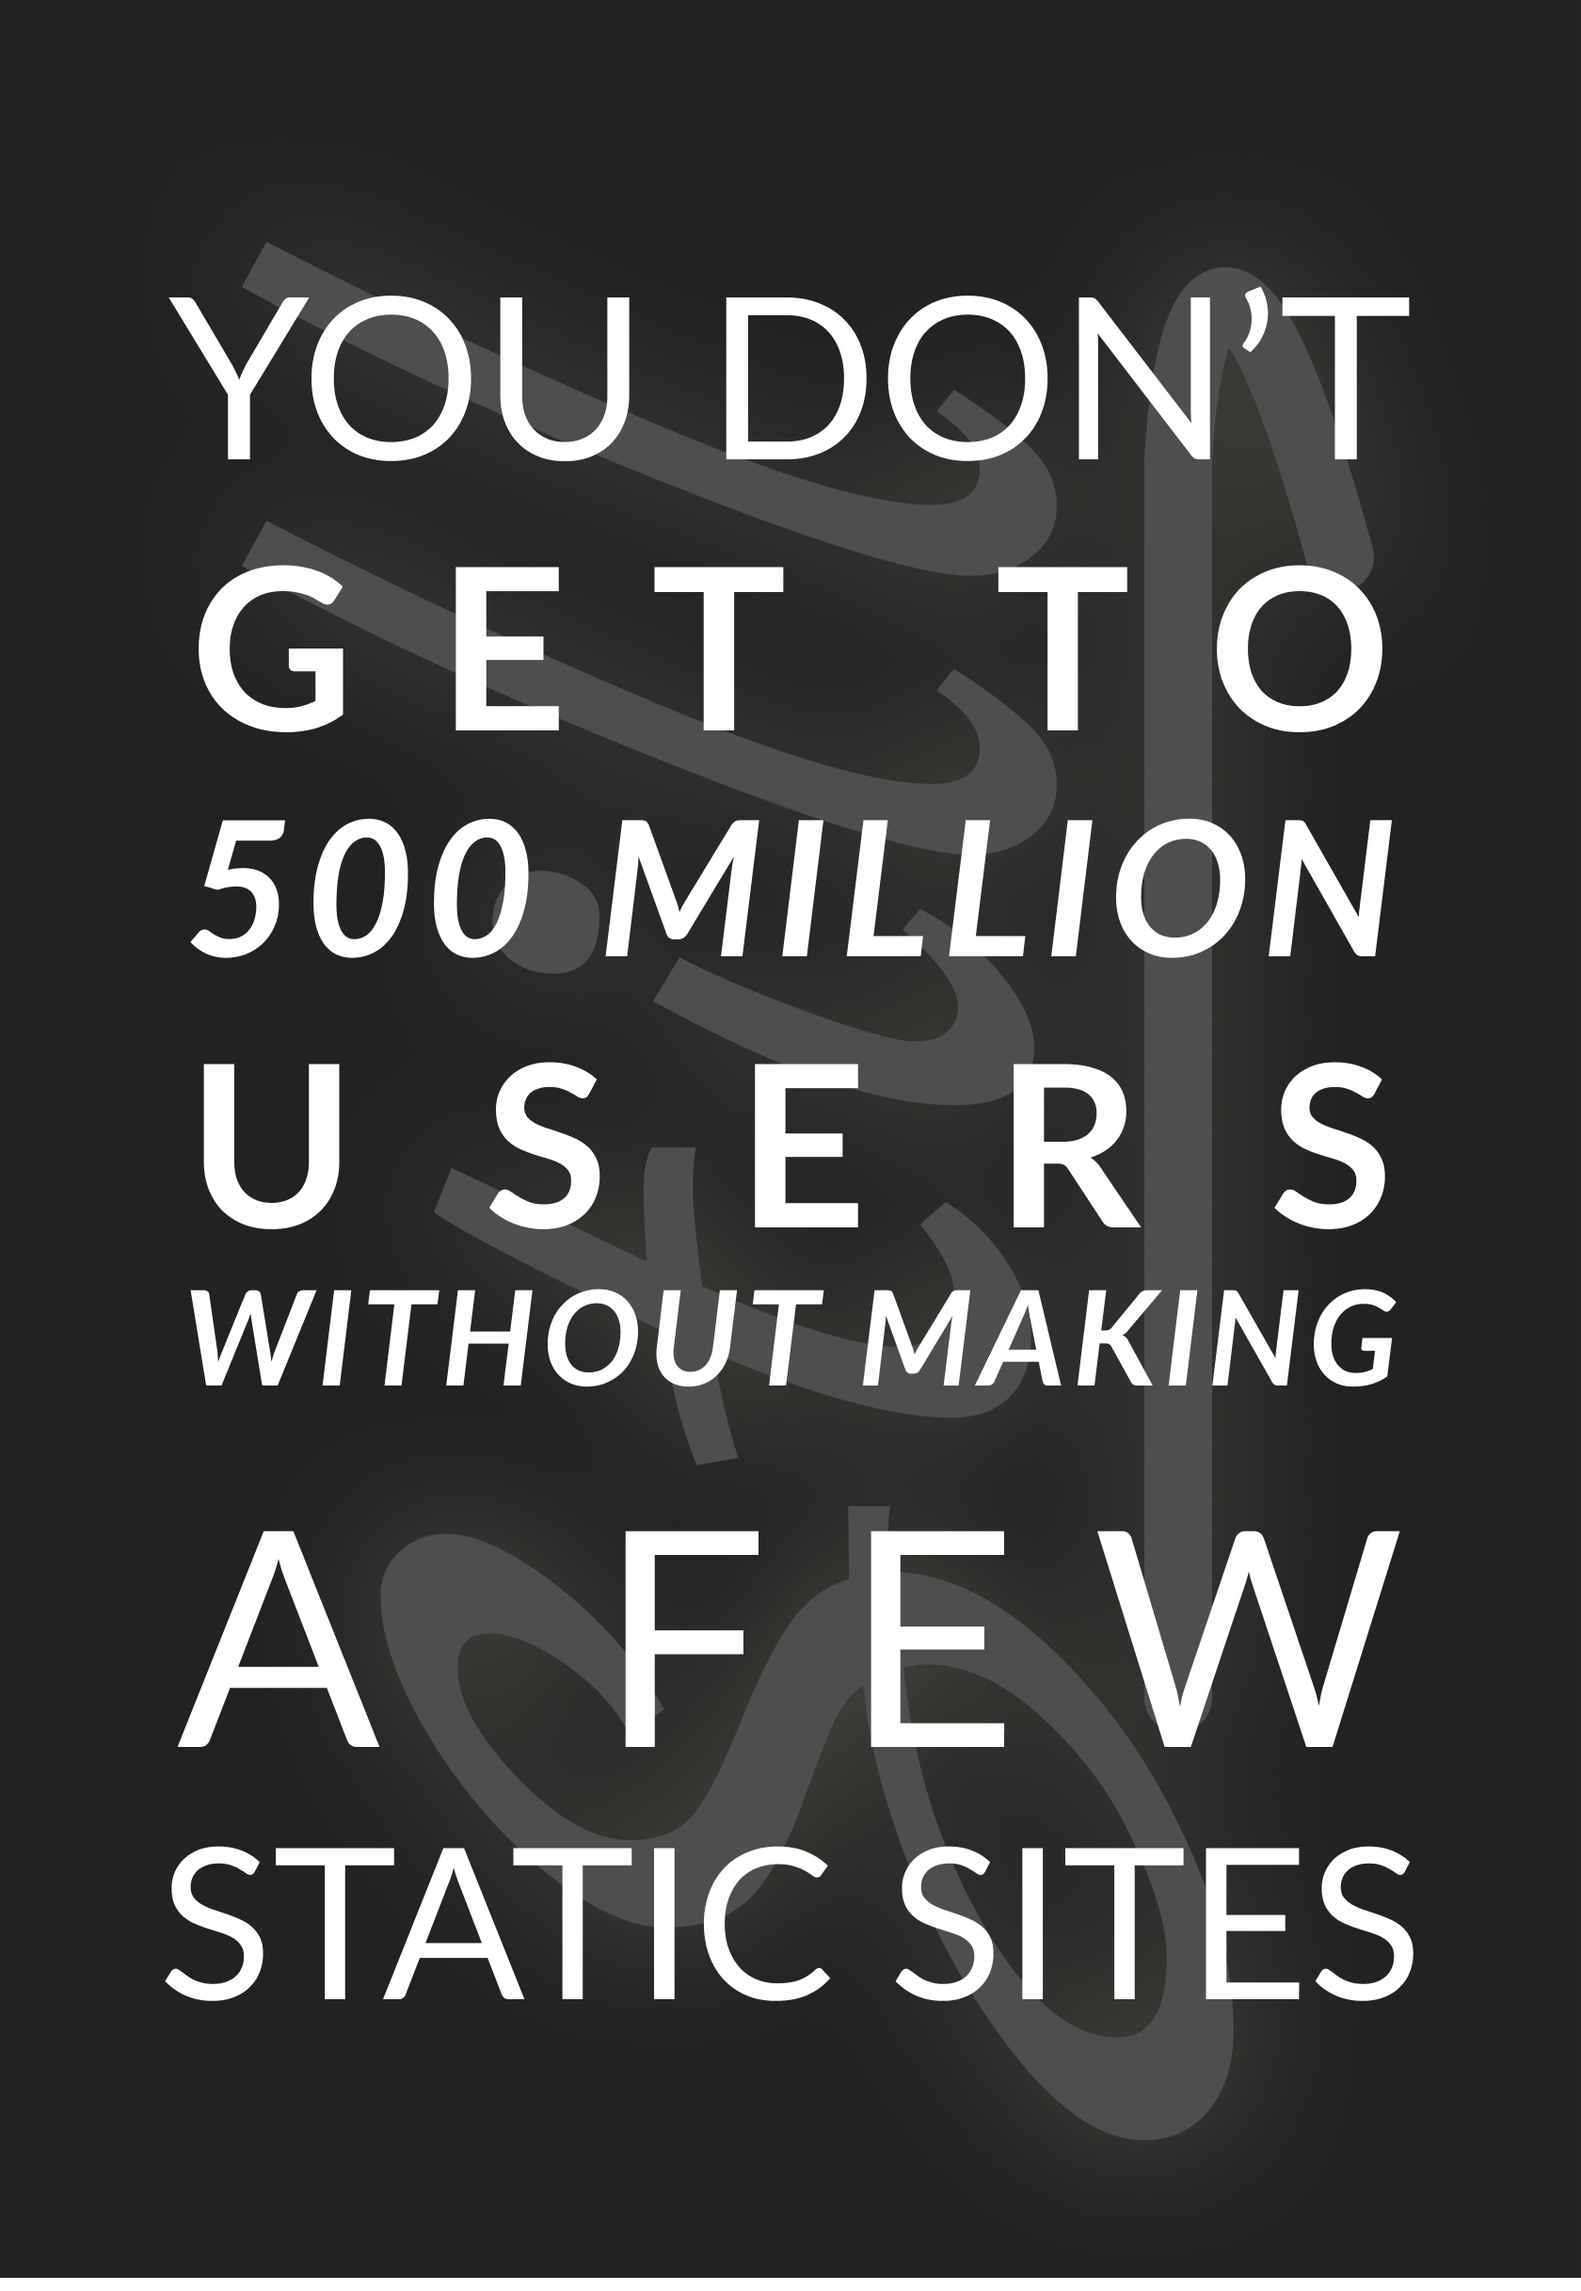
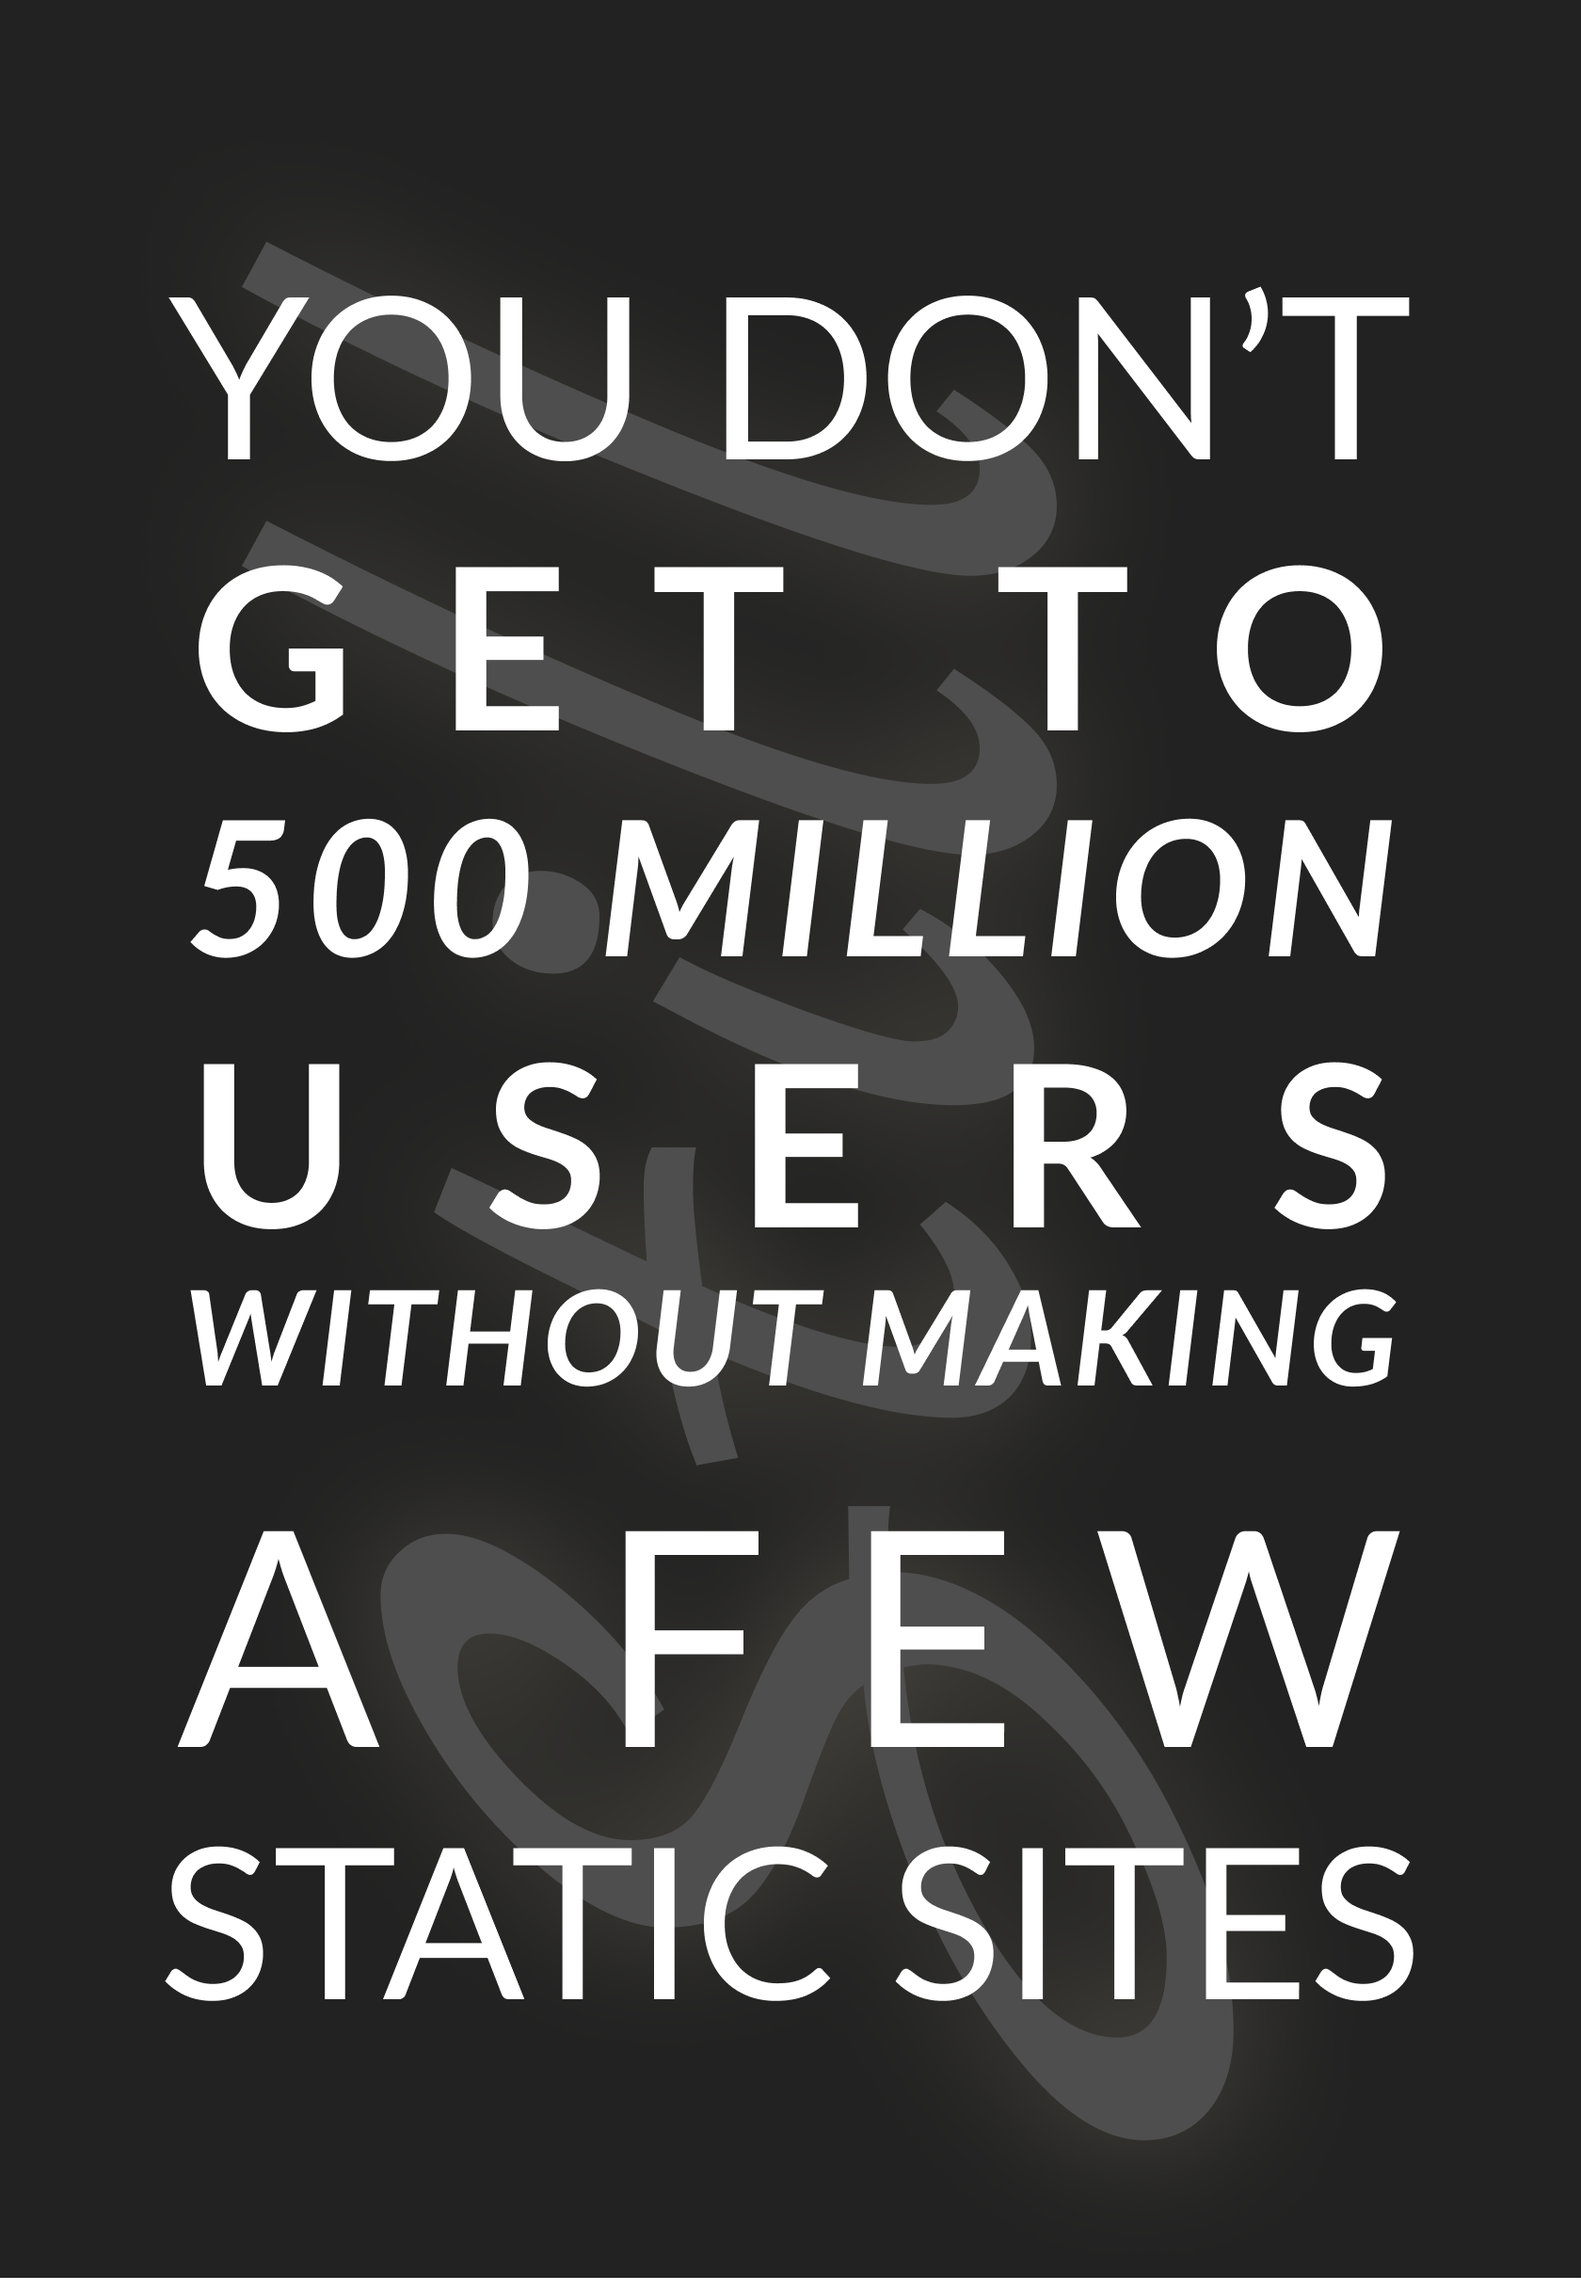
WIP

Changed region(s): [[0.7119, 0.0937, 0.8667, 0.7494]]

diff --git a/priv/site/css/_main.css b/priv/site/css/_main.css
@@ -1,5 +1,5 @@
 .main {
-  height: 100vh;
+  min-height: 100vh;
   position: relative;
   color: var(--c-white);
   z-index: 1;
@@ -36,7 +36,7 @@
   grid-template-rows: max-content max-content;
   justify-content: center;
   max-width: calc(var(--s-9) * 5);
-  padding-top: 15vh;
+  padding-top: 10vh;
   width: 100%;
 }
 
@@ -55,6 +55,7 @@
   font-size: var(--s-8);
   font-family: MedulaOne;
   color: var(--c-white-alt);
+  margin-bottom: var(--s-9);
 }
 
 .main .marquee {

diff --git a/priv/site/css/_reset.css b/priv/site/css/_reset.css
@@ -23,7 +23,18 @@ body, html {
   line-height: 1.2;
   font-family: PontanoSans;
   overscroll-behavior-y: none;
+}
 
+@media (max-width: 700px) {
+  body, html {
+    font-size: 12px;
+  }
+}
+
+@media (max-width: 450px) {
+  body, html {
+    font-size: 10px;
+  }
 }
 
 * {
@@ -76,7 +87,6 @@ pre {
   padding: 1rem;
   color: var(--c-white);
   background-color: var(--c-black);
-  overflow-x: scroll;
 }
 
 p > code {

diff --git a/priv/site/css/_manifesto.css b/priv/site/css/_manifesto.css
@@ -1,6 +1,6 @@
 .manifesto {
   background-color: var(--c-white);
-  padding: var(--s-6);
+  padding: var(--s-7);
 }
 
 .manifesto .content {
